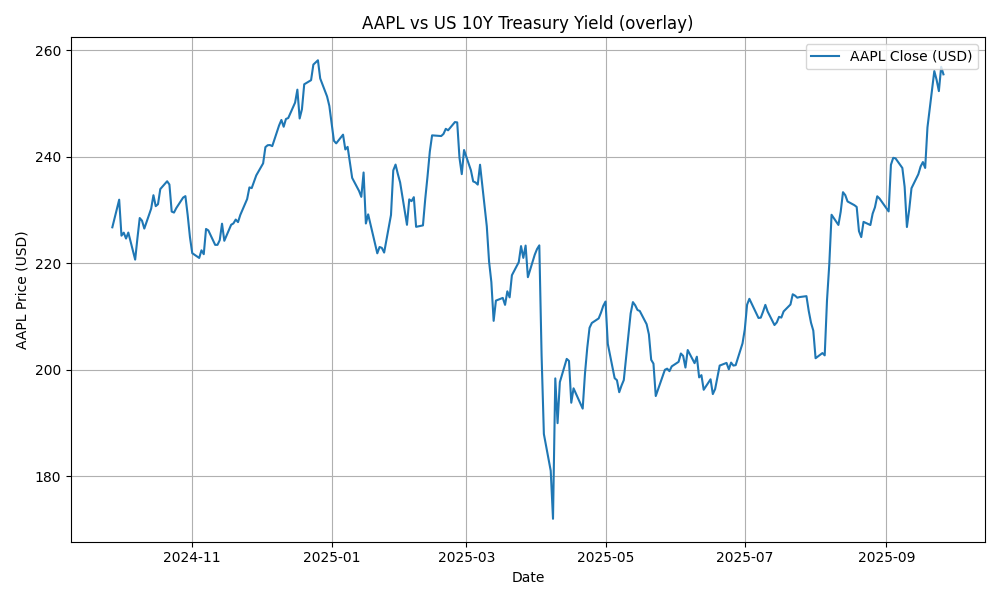
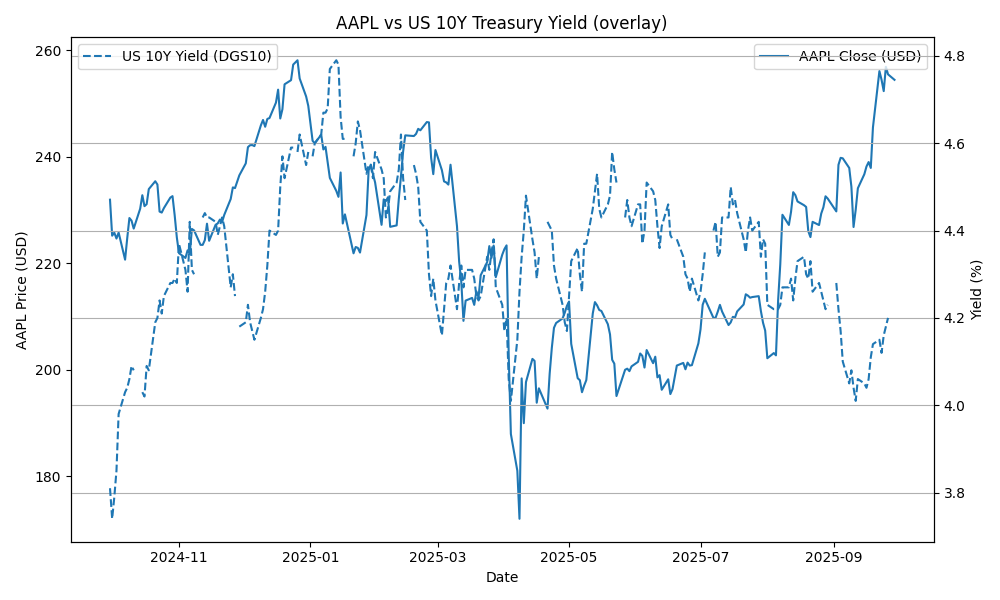
fix(plot): normalize timezones and align window for AAPL vs DGS10

diff --git a/notebooks/plot_aapl_vs_dgs10.py b/notebooks/plot_aapl_vs_dgs10.py
@@ -1,20 +1,25 @@
 import sys, os
 sys.path.append(os.path.abspath(os.path.join(os.path.dirname(__file__), "..")))
 
+import pandas as pd
 import matplotlib.pyplot as plt
 from src.data.yahoo import get_stock_prices
 from src.data.fred import get_dgs10, MissingApiKey
 
-# fetch AAPL
+# --- Fetch AAPL (1y daily) ---
 aapl = get_stock_prices("AAPL", period="1y", interval="1d")
+# ensure tz-naive for comparisons/plotting
+aapl["date"] = pd.to_datetime(aapl["date"]).dt.tz_localize(None)
 
-# fetch DGS10 (10Y Treasury) — needs key or existing cache
+# --- Fetch DGS10 (10Y Treasury) ---
 try:
     dgs10 = get_dgs10(start="2015-01-01", use_cache=True)
-except MissingApiKey as e:
+    dgs10["date"] = pd.to_datetime(dgs10["date"]).dt.tz_localize(None)
+except MissingApiKey:
     print("⚠ DGS10 requires FRED_API_KEY or cached CSV. Skipping overlay.")
     dgs10 = None
 
+# --- Plot ---
 plt.figure(figsize=(10,6))
 ax1 = plt.gca()
 ax1.plot(aapl["date"], aapl["close"], label="AAPL Close (USD)")
@@ -22,10 +27,13 @@ ax1.set_xlabel("Date")
 ax1.set_ylabel("AAPL Price (USD)")
 
 if dgs10 is not None:
-    # align to last 1y for visual clarity
-    dgs10_1y = dgs10[dgs10["date"] >= aapl["date"].min()]
+    # align to the AAPL window
+    start = aapl["date"].min()
+    end = aapl["date"].max()
+    dgs10_win = dgs10[(dgs10["date"] >= start) & (dgs10["date"] <= end)]
+
     ax2 = ax1.twinx()
-    ax2.plot(dgs10_1y["date"], dgs10_1y["value"], label="US 10Y Yield (DGS10)", linestyle="--")
+    ax2.plot(dgs10_win["date"], dgs10_win["value"], label="US 10Y Yield (DGS10)", linestyle="--")
     ax2.set_ylabel("Yield (%)")
     ax2.legend(loc="upper left")
 
@@ -33,6 +41,8 @@ ax1.legend(loc="upper right")
 plt.title("AAPL vs US 10Y Treasury Yield (overlay)")
 plt.grid(True)
 plt.tight_layout()
+
 out = "notebooks/aapl_vs_dgs10.png"
 plt.savefig(out)
 print(f"✅ Plot saved to {out}")
+
